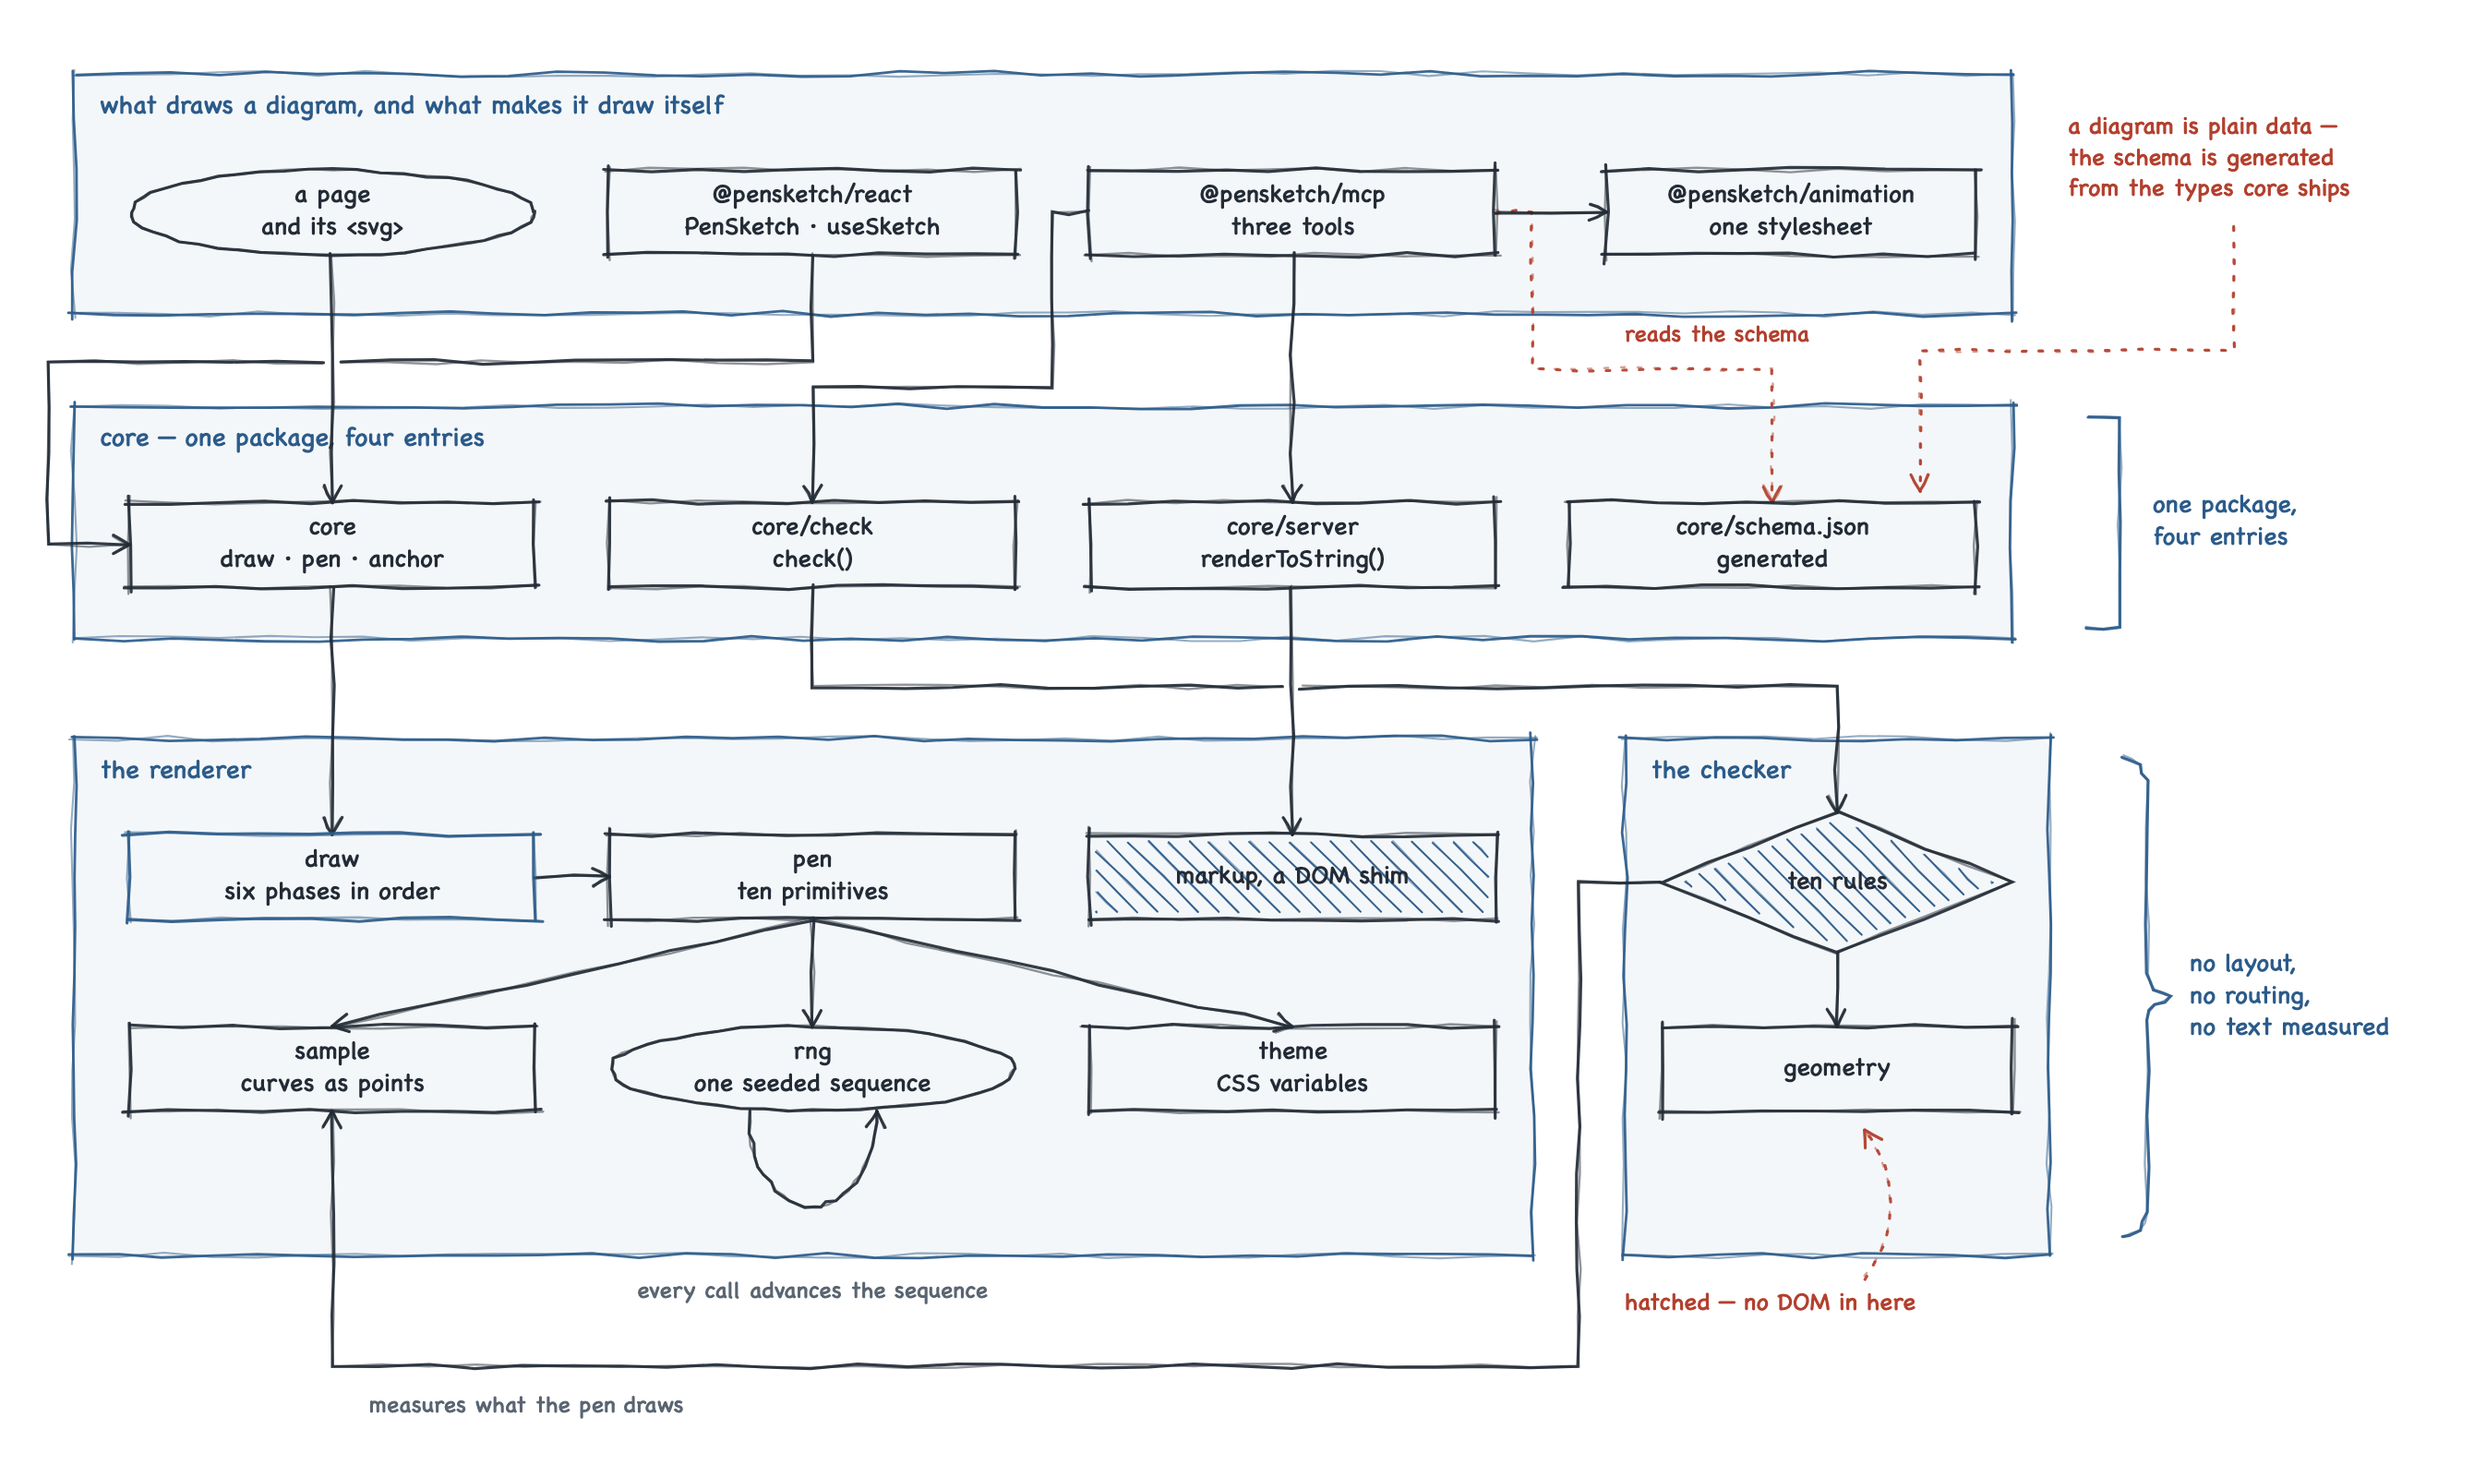
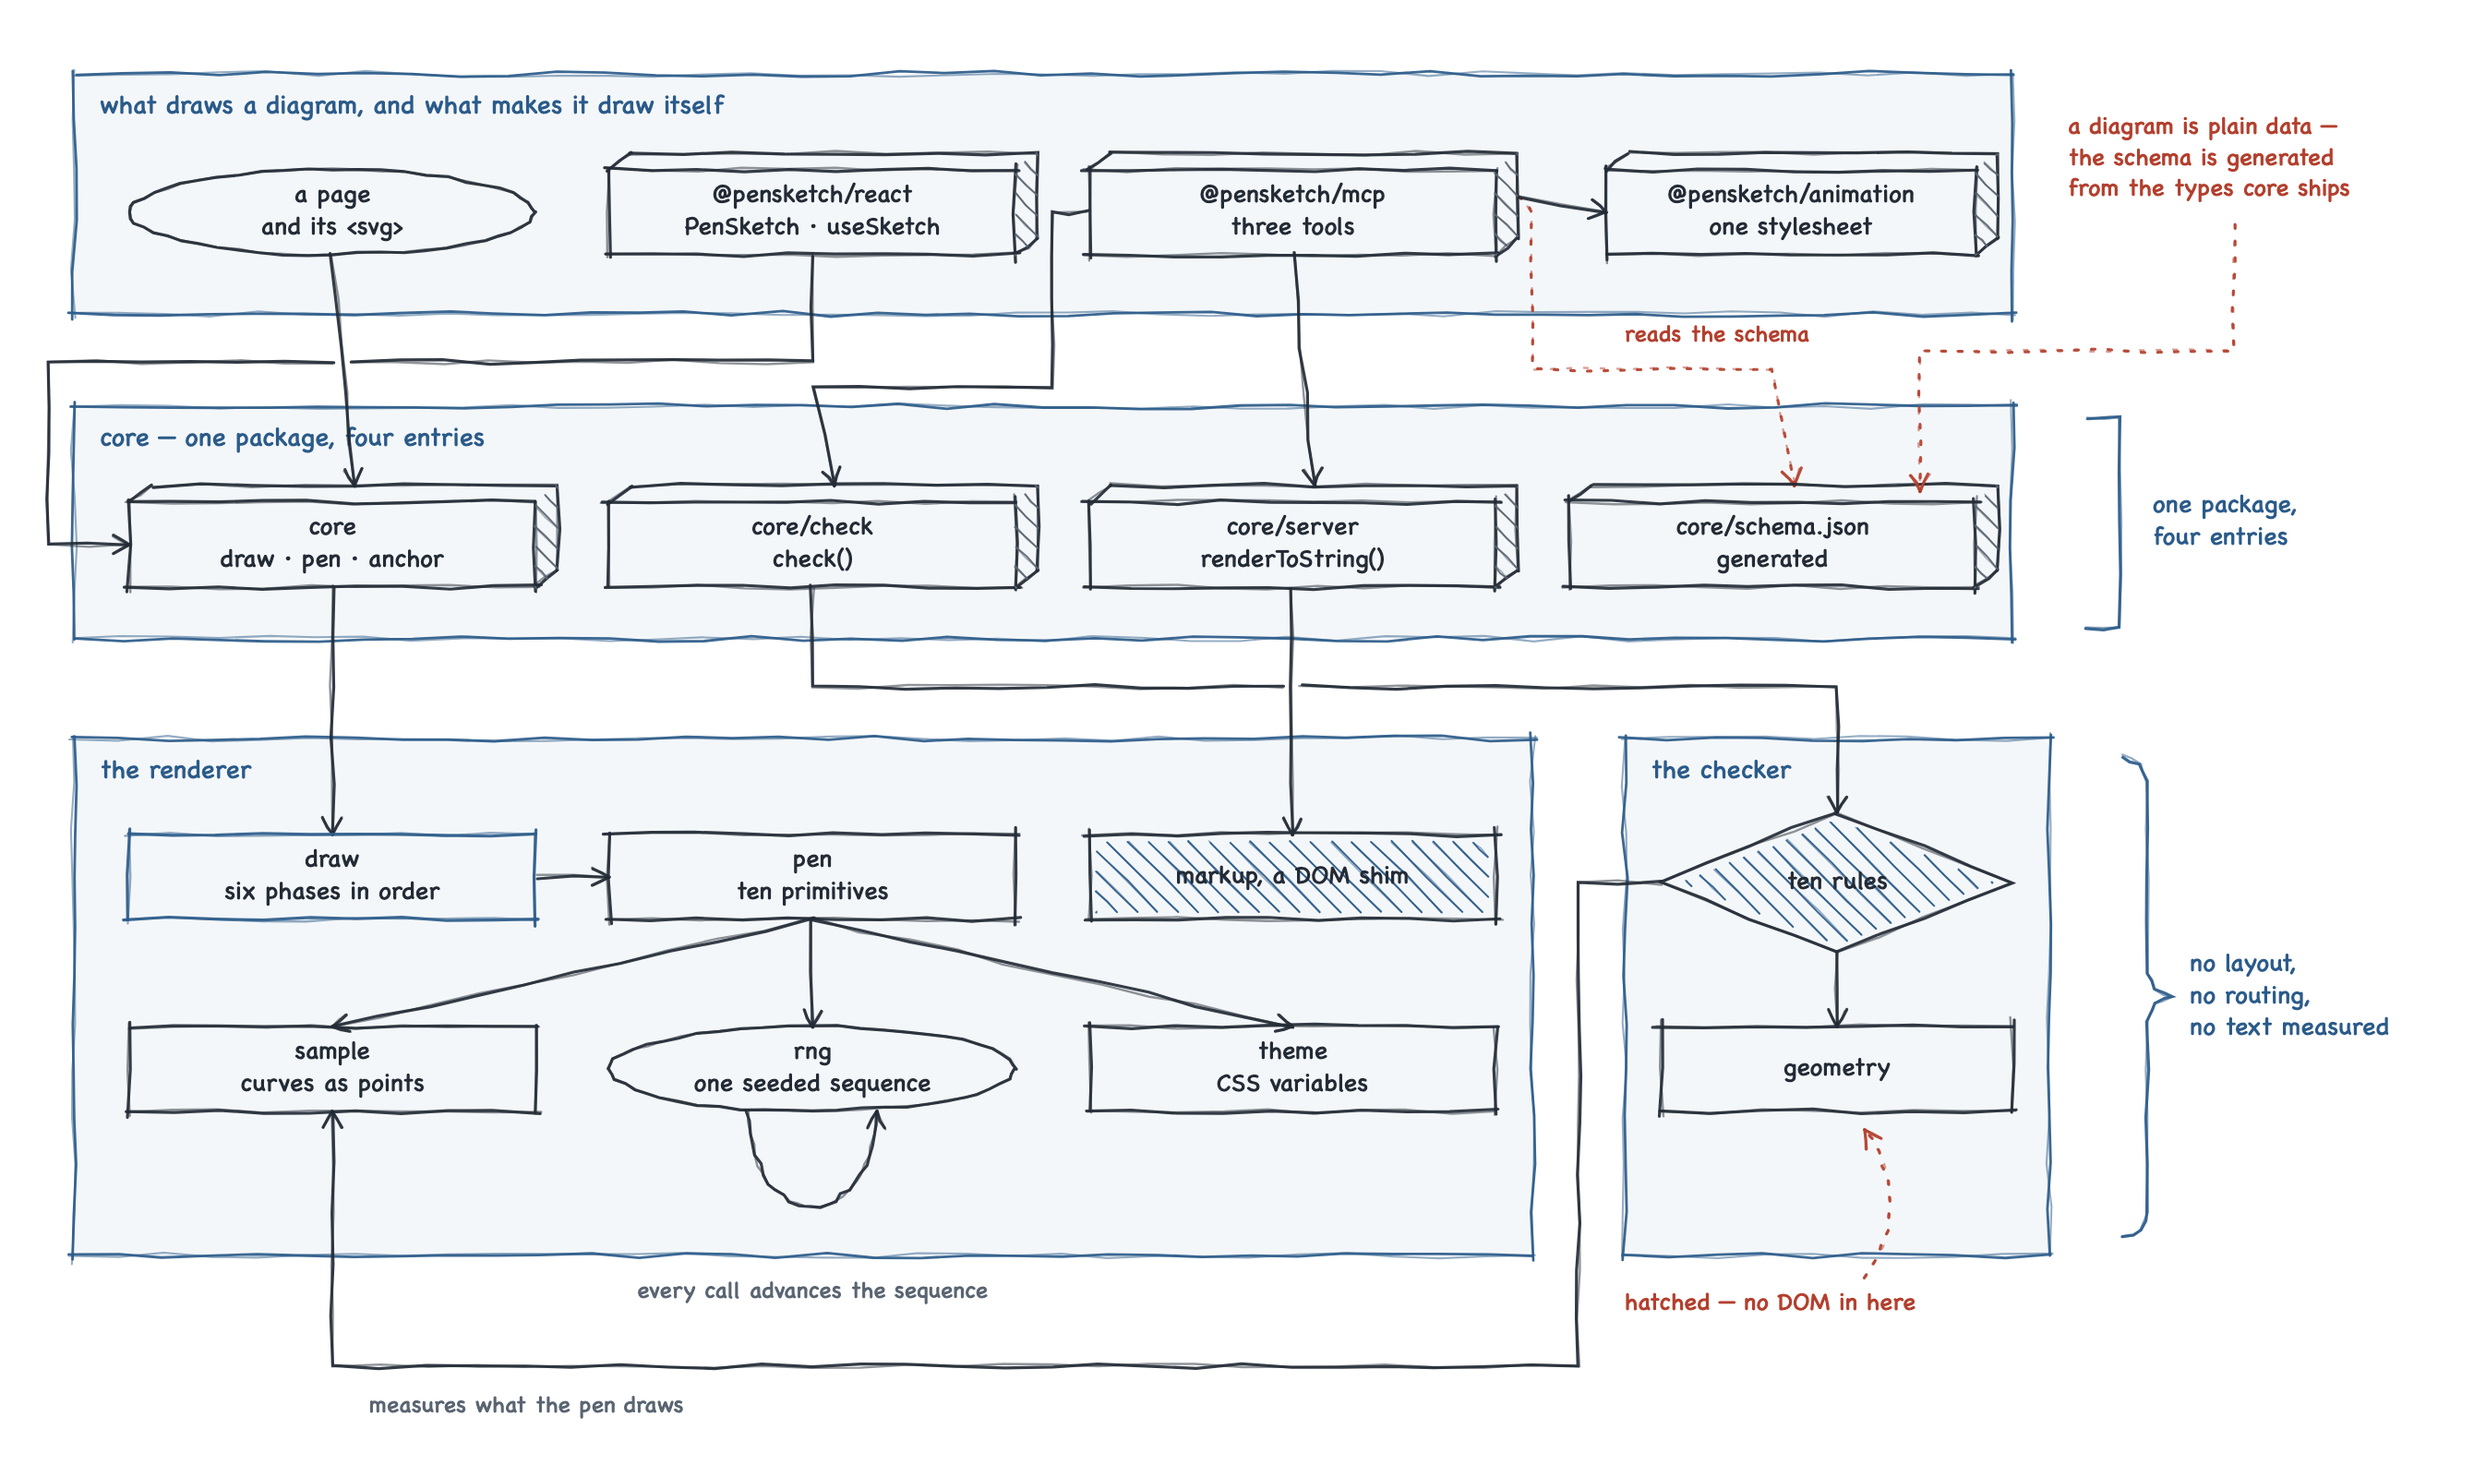
5.5b: the showcase learns which of its shapes ship
The architecture diagram becomes the hybrid the owner asked for, and the split
is the diagram's own notation rather than decoration. Its key already says a
group is a layer, a box is a module, a pill is something outside the package
and a diamond is a decision; it now says depth is *published* - the slabs are
what npm hands you. So the three packages and core's four entries stand up,
and the page, the renderer's internals, the checker's diamond and everything
else lie flat, which is a true sentence about the architecture: seven
installable surfaces over the machinery inside them.

Per-node `extrude: true` on the seven, no diagram-wide switch - the raising
direction of the override, where vanilla demonstrates the flattening one, so
the two shipped examples between them show the override cutting both ways.

Zero findings hybrid and flat, all fifteen diagrams clean, stills re-rendered
deterministically. The envelope test still holds on vanilla: this page's
extrusion lives in node data, so its served options carry no pair, which is
the other way a page can extrude and worth having on show for that reason too.

diff --git a/examples/showcase/index.html b/examples/showcase/index.html
@@ -82,6 +82,8 @@ svg text {
   //   accent   where a drawing starts
   //   hatch    runs with no DOM anywhere in it
   //   dotted   a relationship no code crosses
+  //   depth    published: the slabs are what npm hands you, and the flat
+  //            shapes are what lives inside them or outside the package
   //
   // None of that is renderer behaviour. `hatch` and `dotted` mean whatever the
   // diagram using them says they mean, and this one says so out loud.
@@ -102,16 +104,16 @@ svg text {
       // drawn on. The page is a pill because it is not part of the package -
       // it is whatever HTML you already have.
       { id: 'page',   shape: 'pill',    x: 70,  y: 92,  w: 220, h: 46, lines: ['a page', 'and its <svg>'] },
-      { id: 'react',  shape: 'box',     x: 330, y: 92,  w: 220, h: 46, lines: ['@pensketch/react', 'PenSketch · useSketch'] },
-      { id: 'mcp',    shape: 'box',     x: 590, y: 92,  w: 220, h: 46, lines: ['@pensketch/mcp', 'three tools'] },
-      { id: 'anim',   shape: 'box',     x: 870, y: 92,  w: 200, h: 46, lines: ['@pensketch/animation', 'one stylesheet'] },
+      { id: 'react',  shape: 'box',     x: 330, y: 92,  w: 220, h: 46, lines: ['@pensketch/react', 'PenSketch · useSketch'], extrude: true },
+      { id: 'mcp',    shape: 'box',     x: 590, y: 92,  w: 220, h: 46, lines: ['@pensketch/mcp', 'three tools'], extrude: true },
+      { id: 'anim',   shape: 'box',     x: 870, y: 92,  w: 200, h: 46, lines: ['@pensketch/animation', 'one stylesheet'], extrude: true },
 
       // One package, four entry points, each with its own byte budget. A
       // consumer who never imports the checker ships none of it.
-      { id: 'root',   shape: 'box',     x: 70,  y: 272, w: 220, h: 46, lines: ['core', 'draw · pen · anchor'] },
-      { id: 'check',  shape: 'box',     x: 330, y: 272, w: 220, h: 46, lines: ['core/check', 'check()'] },
-      { id: 'server', shape: 'box',     x: 590, y: 272, w: 220, h: 46, lines: ['core/server', 'renderToString()'] },
-      { id: 'schema', shape: 'box',     x: 850, y: 272, w: 220, h: 46, lines: ['core/schema.json', 'generated'] },
+      { id: 'root',   shape: 'box',     x: 70,  y: 272, w: 220, h: 46, lines: ['core', 'draw · pen · anchor'], extrude: true },
+      { id: 'check',  shape: 'box',     x: 330, y: 272, w: 220, h: 46, lines: ['core/check', 'check()'], extrude: true },
+      { id: 'server', shape: 'box',     x: 590, y: 272, w: 220, h: 46, lines: ['core/server', 'renderToString()'], extrude: true },
+      { id: 'schema', shape: 'box',     x: 850, y: 272, w: 220, h: 46, lines: ['core/schema.json', 'generated'], extrude: true },
 
       // The renderer. `draw` is accented because it is where a drawing starts.
       { id: 'draw',   shape: 'box',     x: 70,  y: 452, w: 220, h: 46, lines: ['draw', 'six phases in order'], accent: true },

diff --git a/packages/mcp/src/resources.generated.ts b/packages/mcp/src/resources.generated.ts
@@ -829,7 +829,8 @@ export const EXAMPLES = {
           "lines": [
             "@pensketch/react",
             "PenSketch · useSketch"
-          ]
+          ],
+          "extrude": true
         },
         {
           "id": "mcp",
@@ -841,7 +842,8 @@ export const EXAMPLES = {
           "lines": [
             "@pensketch/mcp",
             "three tools"
-          ]
+          ],
+          "extrude": true
         },
         {
           "id": "anim",
@@ -853,7 +855,8 @@ export const EXAMPLES = {
           "lines": [
             "@pensketch/animation",
             "one stylesheet"
-          ]
+          ],
+          "extrude": true
         },
         {
           "id": "root",
@@ -865,7 +868,8 @@ export const EXAMPLES = {
           "lines": [
             "core",
             "draw · pen · anchor"
-          ]
+          ],
+          "extrude": true
         },
         {
           "id": "check",
@@ -877,7 +881,8 @@ export const EXAMPLES = {
           "lines": [
             "core/check",
             "check()"
-          ]
+          ],
+          "extrude": true
         },
         {
           "id": "server",
@@ -889,7 +894,8 @@ export const EXAMPLES = {
           "lines": [
             "core/server",
             "renderToString()"
-          ]
+          ],
+          "extrude": true
         },
         {
           "id": "schema",
@@ -901,7 +907,8 @@ export const EXAMPLES = {
           "lines": [
             "core/schema.json",
             "generated"
-          ]
+          ],
+          "extrude": true
         },
         {
           "id": "draw",
